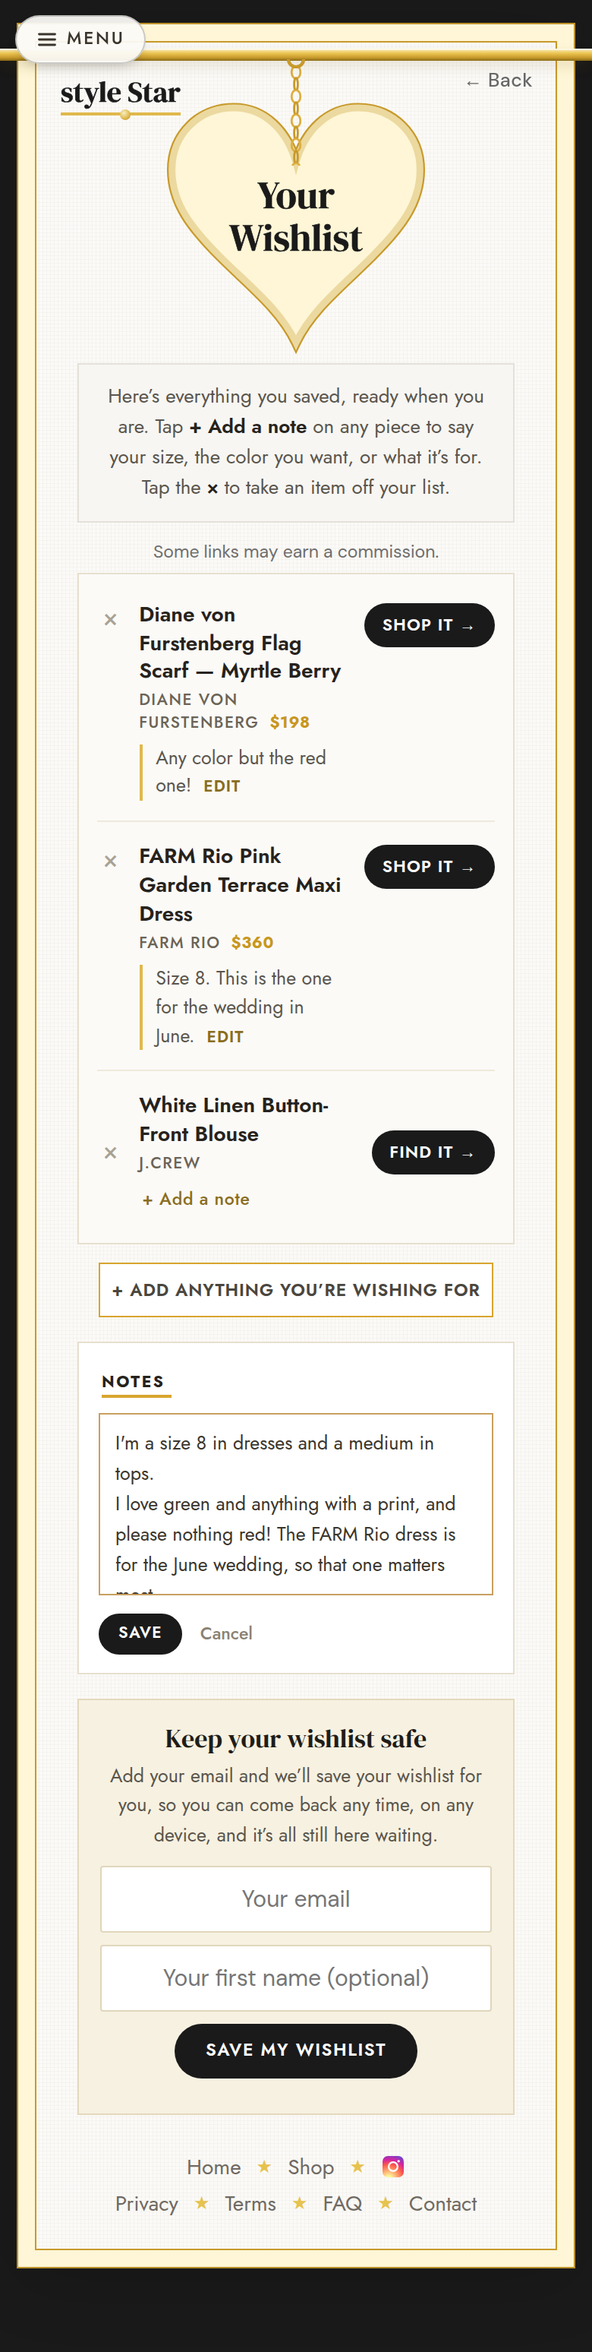
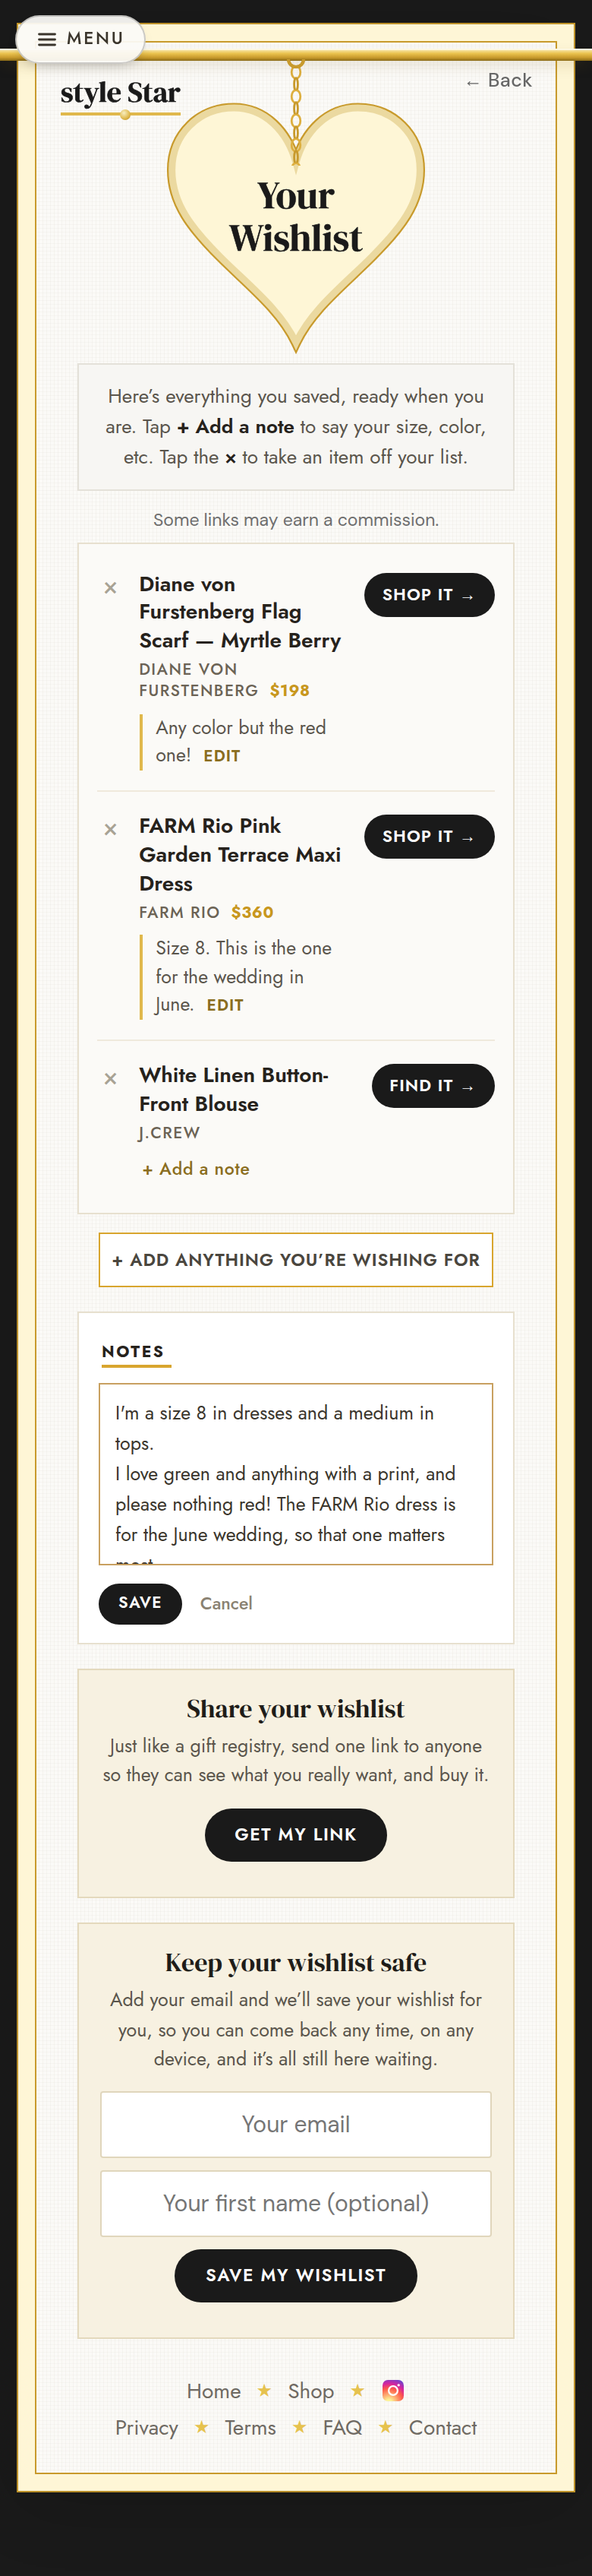
Item three: sharing the list, and a call from item one reversed
HER COPY, near enough verbatim:
  "Share your wishlist / Just like a gift registry, send one link to anyone so
   they can see what you really want, and buy it."  +  [Get my link]

🚨 HER CATCH, and it is an honesty problem rather than a wording nit: the draft
ended "They see your list, and nothing else." That reads as "that is all they
can DO", which is false -- they can tap through, buy, and wander into the Mall.
DELETED, not reworded. ▶ And the reassurance was answering a question her own
design already answers: the open note means SHE chooses what personal detail
reaches that page. The privacy fact itself is guaranteed in code (the server
allowlist), which is worth more than a sentence.

⚠ "STOP SHARING" NOW CONFIRMS, and the reason is that the label cannot carry
the truth: it sounds like a pause and is a DELETE. Every link already sent
dies, and sharing again mints a different one. The confirm says so plainly.
It is the only irreversible action in the feature, so it is the only one that
asks -- everything else here is undoable.

⭐ NO LOCAL "am I sharing?" STATE, because the server made it unnecessary:
turning it on leaves the revision alone, so asking twice returns the SAME link.
The button is idempotent and always safe to tap. The token is cached only so a
returning visit can show the shared state without a round trip.

⚠ Two email asks can never stack: _wlRenderStay stands down while the share
[…]

Changed region(s): [[0.0, 0.0, 1.0, 0.9922], [0.6154, 0.3101, 0.8308, 0.4341], [0.8308, 0.5581, 0.8615, 0.5891]]

diff --git a/index.html b/index.html
@@ -1195,8 +1195,14 @@ html.edit-velvet,html.edit-velvet body{background:#0E7F8C}
    ⚠ The note itself wears the SAME gold left rule as the shared page's
    .sh-note, so her words look like her words in both places. Grep sh-note
    before restyling either -- they are meant to match. */
-#s-wishlist .wl-row.hasnote{align-items:flex-start}
-#s-wishlist .wl-row.hasnote .wl-go{margin-top:2px}
+/* ⚠ REVISED once the real screen was rendered: this was scoped to .hasnote,
+   on the reasoning that rows without a note should not change. That reasoning
+   died the moment "+ Add a note" went on EVERY row -- they are all taller now,
+   so a centred × and a centred Shop it float mid-row on the note-less ones and
+   look plainly wrong beside their neighbours. Uniform top alignment. */
+#s-wishlist .wl-row{align-items:flex-start}
+#s-wishlist .wl-row .wl-go{margin-top:2px}
+#s-wishlist .wl-row .wl-del{margin-top:-1px}
 #s-wishlist .wl-addnote{display:inline-block;font:500 11.5px/1 'Jost',sans-serif;letter-spacing:.03em;color:#8a6d20;margin-top:8px;cursor:pointer;-webkit-tap-highlight-color:transparent;padding:3px 2px}
 #s-wishlist .wl-note{display:block;font:400 12.5px/1.5 'Jost',sans-serif;color:#5a554c;margin-top:7px;padding-left:9px;border-left:2px solid #E0B84C}
 #s-wishlist .wl-ne{font:600 10.5px/1 'Jost',sans-serif;letter-spacing:.05em;text-transform:uppercase;color:#8a6d20;margin-left:8px;cursor:pointer;white-space:nowrap;-webkit-tap-highlight-color:transparent}
@@ -1222,6 +1228,24 @@ html.edit-velvet,html.edit-velvet body{background:#0E7F8C}
 #s-wishlist .wl-lnedit{display:inline-block;font:500 11.5px/1 'Jost',sans-serif;color:#8a6d20;margin-top:10px;cursor:pointer;-webkit-tap-highlight-color:transparent;padding:3px 2px}
 #s-wishlist .wl-lnote textarea{width:100%;font:400 12.5px/1.6 'Jost',sans-serif;color:#3a352c;background:#fff;border:1px solid #D8A52E;border-radius:0;padding:9px 10px;resize:none;-webkit-appearance:none}
 #s-wishlist .wl-lnote textarea:focus{outline:none;border-color:#C8A060}
+/* --- SHARING THE LIST (2026-08-22) ---------------------------------------
+   The same cream card as "Keep your wishlist safe", because it is the same
+   KIND of thing: a quiet offer under her list, never a demand. */
+#s-wishlist .wl-share{margin-top:16px;background:#F7F1E1;border:1px solid #e4d9bd;padding:15px 14px 14px;text-align:center}
+#s-wishlist .wl-share .wsh-t{font:400 17px/1.25 'DM Serif Display',Georgia,serif;color:#1f1d19;margin-bottom:5px}
+#s-wishlist .wl-share .wsh-s{font:400 12.5px/1.55 'Jost',sans-serif;color:#5a554c;margin:0 auto 11px;max-width:292px}
+#s-wishlist .wl-share .wsh-s b{color:#8a6d20;font-weight:600}
+#s-wishlist .wl-share .wsh-btn{display:inline-block;font:600 11.5px/1 'Jost',sans-serif;letter-spacing:.07em;text-transform:uppercase;color:#fff;background:#1a1a1a;border-radius:999px;padding:12px 20px;border:none;cursor:pointer}
+#s-wishlist .wl-share .wsh-btn:disabled{opacity:.6}
+#s-wishlist .wl-share input{display:block;width:100%;max-width:292px;margin:0 auto 8px;font:400 13.5px/1.4 'Jost',sans-serif;color:#3a352c;background:#fff;border:1px solid #D8A52E;border-radius:0;padding:11px 10px;-webkit-appearance:none}
+#s-wishlist .wl-share input:focus{outline:none;border-color:#C8A060}
+/* ⚠ The link must never widen the card: a share token is ~90 characters and
+   would push the page sideways. It ellipsises, and Copy is what she uses. */
+#s-wishlist .wl-share .wsh-box{display:flex;align-items:center;gap:8px;background:#fff;border:1px solid #D8A52E;padding:9px 10px;margin:0 auto 9px;max-width:292px}
+#s-wishlist .wl-share .wsh-box code{flex:1;min-width:0;font:400 11px/1.4 'DM Sans',sans-serif;color:#3a352c;overflow:hidden;text-overflow:ellipsis;white-space:nowrap;text-align:left}
+#s-wishlist .wl-share .wsh-cp{flex:0 0 auto;font:600 10.5px/1 'Jost',sans-serif;letter-spacing:.06em;text-transform:uppercase;color:#fff;background:#1a1a1a;border:none;border-radius:999px;padding:8px 11px;cursor:pointer}
+#s-wishlist .wl-share .wsh-stop{display:inline-block;font:500 11.5px/1 'Jost',sans-serif;color:#8a8272;text-decoration:underline;cursor:pointer;margin-top:2px;-webkit-tap-highlight-color:transparent;padding:3px 2px}
+#s-wishlist .wl-share .wsh-msg{font:400 12px/1.5 'Jost',sans-serif;color:#5a554c;margin-top:8px;min-height:1px}
 #s-wishlist .wl-del{flex:0 0 auto;color:#a8a294;font-size:21px;line-height:1;cursor:pointer;padding:2px 3px;-webkit-tap-highlight-color:transparent}
 #s-wishlist .wl-del:hover{color:#6b655a}
 /* Empty state: never a dead end -- it explains the feature AND offers the way in. */
@@ -4211,6 +4235,7 @@ body.ss-play .hm-entrance{animation:ssOverlayOut .55s ease 1.6s forwards}
   <div id="wlBody"></div>
   <div id="wlAdd"></div>
   <div id="wlNote"></div>
+  <div id="wlShare"></div>
   <div id="wlStay"></div>
   <div class="wl-foot" data-std-foot></div>
 </div>
@@ -9145,6 +9170,138 @@ function wlListNoteSave(){
   _wlRenderListNote();
   _wlSyncServer();
 }
+// --- SHARING THE LIST (2026-08-22, item three) ------------------------------
+// Her words for the card, near enough verbatim. ⚠ The privacy line that was
+// here ("They see your list, and nothing else") is DELETED, her catch: it reads
+// as "that is all they can do", which is false -- they can tap through, buy,
+// and wander into the Mall. And the reassurance was answering a question her
+// own design already answers: the open note means SHE chooses what personal
+// detail is on that page.
+//
+// ▶ NO LOCAL "am I sharing?" STATE IS NEEDED, because turning it on is
+//   IDEMPOTENT: the server leaves the revision alone, so asking twice returns
+//   the SAME link. The token is cached only so a returning visit can show the
+//   shared state without a round trip.
+var _wlShareAsk=false;   // her email is being asked for inside the share card
+var _wlShareBusy=false;
+function _wlShareLink(){try{return localStorage.getItem('ss_sharelink')||''}catch(e){return''}}
+function _wlShareUrl(t){return 'https://stylestar.app/list/'+t}
+function _wlRenderShare(){
+  var el=document.getElementById('wlShare');
+  if(!el)return;
+  if(!_wlCount()){el.innerHTML='';el.style.display='none';return;}
+  el.style.display='';
+  var tok=_wlShareLink();
+  var h='<div class="wl-share">';
+  if(tok){
+    h+='<div class="wsh-t">Your wishlist is shared</div>'
+      +'<div class="wsh-s">Anyone with this link can see your list. It stays up to date as you add pieces. '
+      +'<b>Add a note to anything you want them to get right.</b></div>'
+      +'<div class="wsh-box"><code id="wlShareUrl">'+_esc(_wlShareUrl(tok))+'</code>'
+      +'<button class="wsh-cp" onclick="wlShareCopy()">Copy</button></div>'
+      +'<div class="wsh-msg" id="wlShareMsg"></div>'
+      +'<span class="wsh-stop" role="button" onclick="wlShareStop()">Stop sharing</span>';
+  }else if(_wlShareAsk){
+    h+='<div class="wsh-t">Share your wishlist</div>'
+      +'<div class="wsh-s">First, save your list with your email &mdash; that&rsquo;s where your link lives, '
+      +'so you can come back to it on any device.</div>'
+      +'<input id="wlShareEmail" type="email" inputmode="email" autocomplete="email" placeholder="Your email">'
+      +'<input id="wlShareName" type="text" autocomplete="given-name" placeholder="Your first name (optional)">'
+      +'<div><button class="wsh-btn" id="wlShareBtn" onclick="wlShareGet()">Save and get my link</button></div>'
+      +'<div class="wsh-msg" id="wlShareMsg"></div>';
+  }else{
+    h+='<div class="wsh-t">Share your wishlist</div>'
+      +'<div class="wsh-s">Just like a gift registry, send one link to anyone so they can see '
+      +'what you really want, and buy it.</div>'
+      +'<div><button class="wsh-btn" id="wlShareBtn" onclick="wlShareGet()">Get my link</button></div>'
+      +'<div class="wsh-msg" id="wlShareMsg"></div>';
+  }
+  el.innerHTML=h+'</div>';
+}
+function _wlShareSay(text,bad){
+  var m=document.getElementById('wlShareMsg');
+  if(!m)return;
+  m.style.color=bad?'#c0392b':'#5a554c';
+  m.textContent=text;
+}
+async function wlShareGet(){
+  if(_wlShareBusy)return;
+  // No saved record means no link to make: her email IS the place it lives.
+  // ▶ Deliberately asked HERE rather than hiding the button until she has
+  //   saved -- she is asking for something specific and being told what it
+  //   costs, which is the opposite of a toll on the way in.
+  if(!_ssToken()&&!_wlShareAsk){_wlShareAsk=true;_wlRenderShare();_wlRenderStay();
+    var f=document.getElementById('wlShareEmail');if(f)f.focus();return;}
+  var btn=document.getElementById('wlShareBtn');
+  if(_wlShareAsk){
+    var eIn=document.getElementById('wlShareEmail'),nIn=document.getElementById('wlShareName');
+    var email=(eIn?eIn.value:'').trim(),nameVal=(nIn?nIn.value:'').trim();
+    if(!email||email.indexOf('@')<0){_wlShareSay('Please enter a valid email so we can save your list.',true);return;}
+    _wlShareBusy=true;
+    if(btn){btn.disabled=true;btn.textContent='Saving…'}
+    _wlShareSay('Saving your list…');
+    if(nameVal){
+      userName=nameVal.charAt(0).toUpperCase()+nameVal.slice(1);
+      try{var _d=JSON.parse(localStorage.getItem('ss_data'))||{};_d.userName=userName;localStorage.setItem('ss_data',JSON.stringify(_d));}catch(e){}
+    }
+    try{await saveUserRecord(email,buildFullUserData())}catch(e){}
+    emailDone=true;
+    try{localStorage.setItem('ss_email',email);localStorage.setItem('ss_emailDone','true')}catch(e){}
+    if(!_ssToken()){
+      _wlShareBusy=false;
+      if(btn){btn.disabled=false;btn.textContent='Save and get my link'}
+      _wlShareSay('That didn’t go through. Please try again in a moment.',true);
+      return;
+    }
+    _wlShareAsk=false;
+  }
+  _wlShareBusy=true;
+  if(btn){btn.disabled=true;btn.textContent='Making your link…'}
+  _wlShareSay('Making your link…');
+  var ok=false;
+  try{
+    var email2='';try{email2=localStorage.getItem('ss_email')||''}catch(e){}
+    var res=await fetch('/.netlify/functions/user-data',{
+      method:'POST',headers:{'Content-Type':'application/json'},
+      body:JSON.stringify({email:email2,token:_ssToken(),share:'on'})});
+    var d=await res.json();
+    if(res.ok&&d&&d.shareToken){
+      try{localStorage.setItem('ss_sharelink',d.shareToken)}catch(e){}
+      ok=true;
+    }
+  }catch(e){}
+  _wlShareBusy=false;
+  _wlRenderShare();_wlRenderStay();
+  if(!ok)_wlShareSay('That didn’t go through. Please try again in a moment.',true);
+}
+function wlShareCopy(){
+  var t=_wlShareLink();if(!t)return;
+  var url=_wlShareUrl(t);
+  function done(){_wlShareSay('Link copied.')}
+  if(navigator.share){navigator.share({title:'My Style Star wishlist',url:url}).catch(function(){});return;}
+  if(navigator.clipboard&&navigator.clipboard.writeText){
+    navigator.clipboard.writeText(url).then(done).catch(function(){_wlShareSay('Copy the link above.',true)});
+  }else{_wlShareSay('Copy the link above.',true)}
+}
+async function wlShareStop(){
+  // ⚠ THE ONLY IRREVERSIBLE THING IN THIS FEATURE, so it is the only one that
+  // asks first. "Stop sharing" sounds like a pause and is a DELETE: every link
+  // already sent dies, and sharing again mints a different one. The confirm
+  // carries that, because the label cannot.
+  if(!confirm('Turn off this link?\n\nAnyone you’ve already sent it to won’t be able to open it. You can share again any time, but it will be a new link.'))return;
+  if(_wlShareBusy)return;
+  _wlShareBusy=true;
+  _wlShareSay('Turning it off…');
+  try{
+    var email='';try{email=localStorage.getItem('ss_email')||''}catch(e){}
+    await fetch('/.netlify/functions/user-data',{
+      method:'POST',headers:{'Content-Type':'application/json'},
+      body:JSON.stringify({email:email,token:_ssToken(),share:'off'})});
+  }catch(e){}
+  try{localStorage.removeItem('ss_sharelink')}catch(e){}
+  _wlShareBusy=false;
+  _wlRenderShare();_wlRenderStay();
+}
 function wishRemove(id){
   if(_wlIndexOf(id)<0)return;
   _wlList().splice(_wlIndexOf(id),1);
@@ -9206,11 +9363,11 @@ function renderWishlist(){
   var body=document.getElementById('wlBody');
   if(!body)return;
   var list=_wlList().slice();
-  if(!list.length){body.innerHTML=_wlEmptyHtml();_wlRenderAdd();_wlRenderListNote();_wlRenderStay();return;}
+  if(!list.length){body.innerHTML=_wlEmptyHtml();_wlRenderAdd();_wlRenderListNote();_wlRenderShare();_wlRenderStay();return;}
   // The disclosure rides with the links: it is rendered here, not in the markup,
   // so it is never shown on an empty page where there is nothing to disclose.
   var h='<div class="wl-lead">Here&rsquo;s everything you saved, ready when you are. '
-   +'Tap <b>+ Add a note</b> on any piece to say your size, the color you want, or what it&rsquo;s for. '
+   +'Tap <b>+ Add a note</b> to say your size, color, etc. '
    +'Tap the <b>&times;</b> to take an item off your list.</div>'
    +'<div class="wl-disclosure">Some links may earn a commission.</div>'
    +'<div class="wl-card">';
@@ -9227,7 +9384,7 @@ function renderWishlist(){
     // ⚠ Only a row that actually carries a note switches to top alignment.
     // Doing it to every row would lift the ✕ and the Shop it button on a screen
     // she has already blessed, to fix a problem those rows do not have.
-    var hasNote=!!(it.note||_wlNoteOpen===it.id);
+    var hasNote=!!(it.note||_wlNoteOpen===it.id);   // marks the row for the tests
     h+='<div class="wl-row'+(pick?' pick':'')+(own?' own':'')+(hasNote?' hasnote':'')+'">'
       +'<span class="wl-del" role="button" title="Remove" aria-label="Remove '+_esc(it.name)+'" onclick="wishRemove(\''+it.id+'\')">&times;</span>'
       +'<div class="wl-b">'
@@ -9244,6 +9401,7 @@ function renderWishlist(){
   body.innerHTML=h;
   _wlRenderAdd();
   _wlRenderListNote();
+  _wlRenderShare();
   _wlRenderStay();
 }
 // The email ask appears only once she has actually saved something, so it reads
@@ -9252,7 +9410,10 @@ function renderWishlist(){
 function _wlRenderStay(){
   var el=document.getElementById('wlStay');
   if(!el)return;
-  if(emailDone||!_wlCount()){el.innerHTML='';el.style.display='none';return;}
+  // ⚠ Never two email asks at once: the share card asks for an email of its
+  // own when she has never saved, and this card sitting under it would be the
+  // same request twice, in two different wordings, on one screen.
+  if(emailDone||!_wlCount()||_wlShareAsk){el.innerHTML='';el.style.display='none';return;}
   el.style.display='';
   el.innerHTML='<div class="wl-stay">'
     +'<div class="ws-t">Keep your wishlist safe</div>'

diff --git a/scratchpad/wlnote.js b/scratchpad/wlnote.js
@@ -70,7 +70,14 @@ console.log('\n1. A piece with no note offers one, in words');
 let { ctx, pg } = await open();
 let rows = await rowState(pg);
 ok('both rows show "+ Add a note"', rows.length === 2 && rows.every(r => r.add), JSON.stringify(rows));
-ok('no row is top-aligned yet', rows.every(r => !r.hasnote));
+// ⚠ UPDATED DELIBERATELY 2026-08-22: alignment is no longer scoped to rows
+// with notes. Every row carries "+ Add a note" and is therefore taller, so a
+// centred × floated mid-row on the note-less ones. The class still marks the
+// row, it just no longer decides the alignment.
+ok('no row carries a note yet', rows.every(r => !r.hasnote));
+ok('every row is top-aligned, notes or not', await pg.evaluate(() =>
+   [...document.querySelectorAll('#s-wishlist .wl-row')]
+     .every(r => getComputedStyle(r).alignItems === 'flex-start')));
 ok('the affordance is a word, not an icon',
    await pg.evaluate(() => document.querySelector('#s-wishlist .wl-addnote').textContent.trim() === '+ Add a note'));
 ok('the lead line teaches it', await pg.evaluate(() =>
